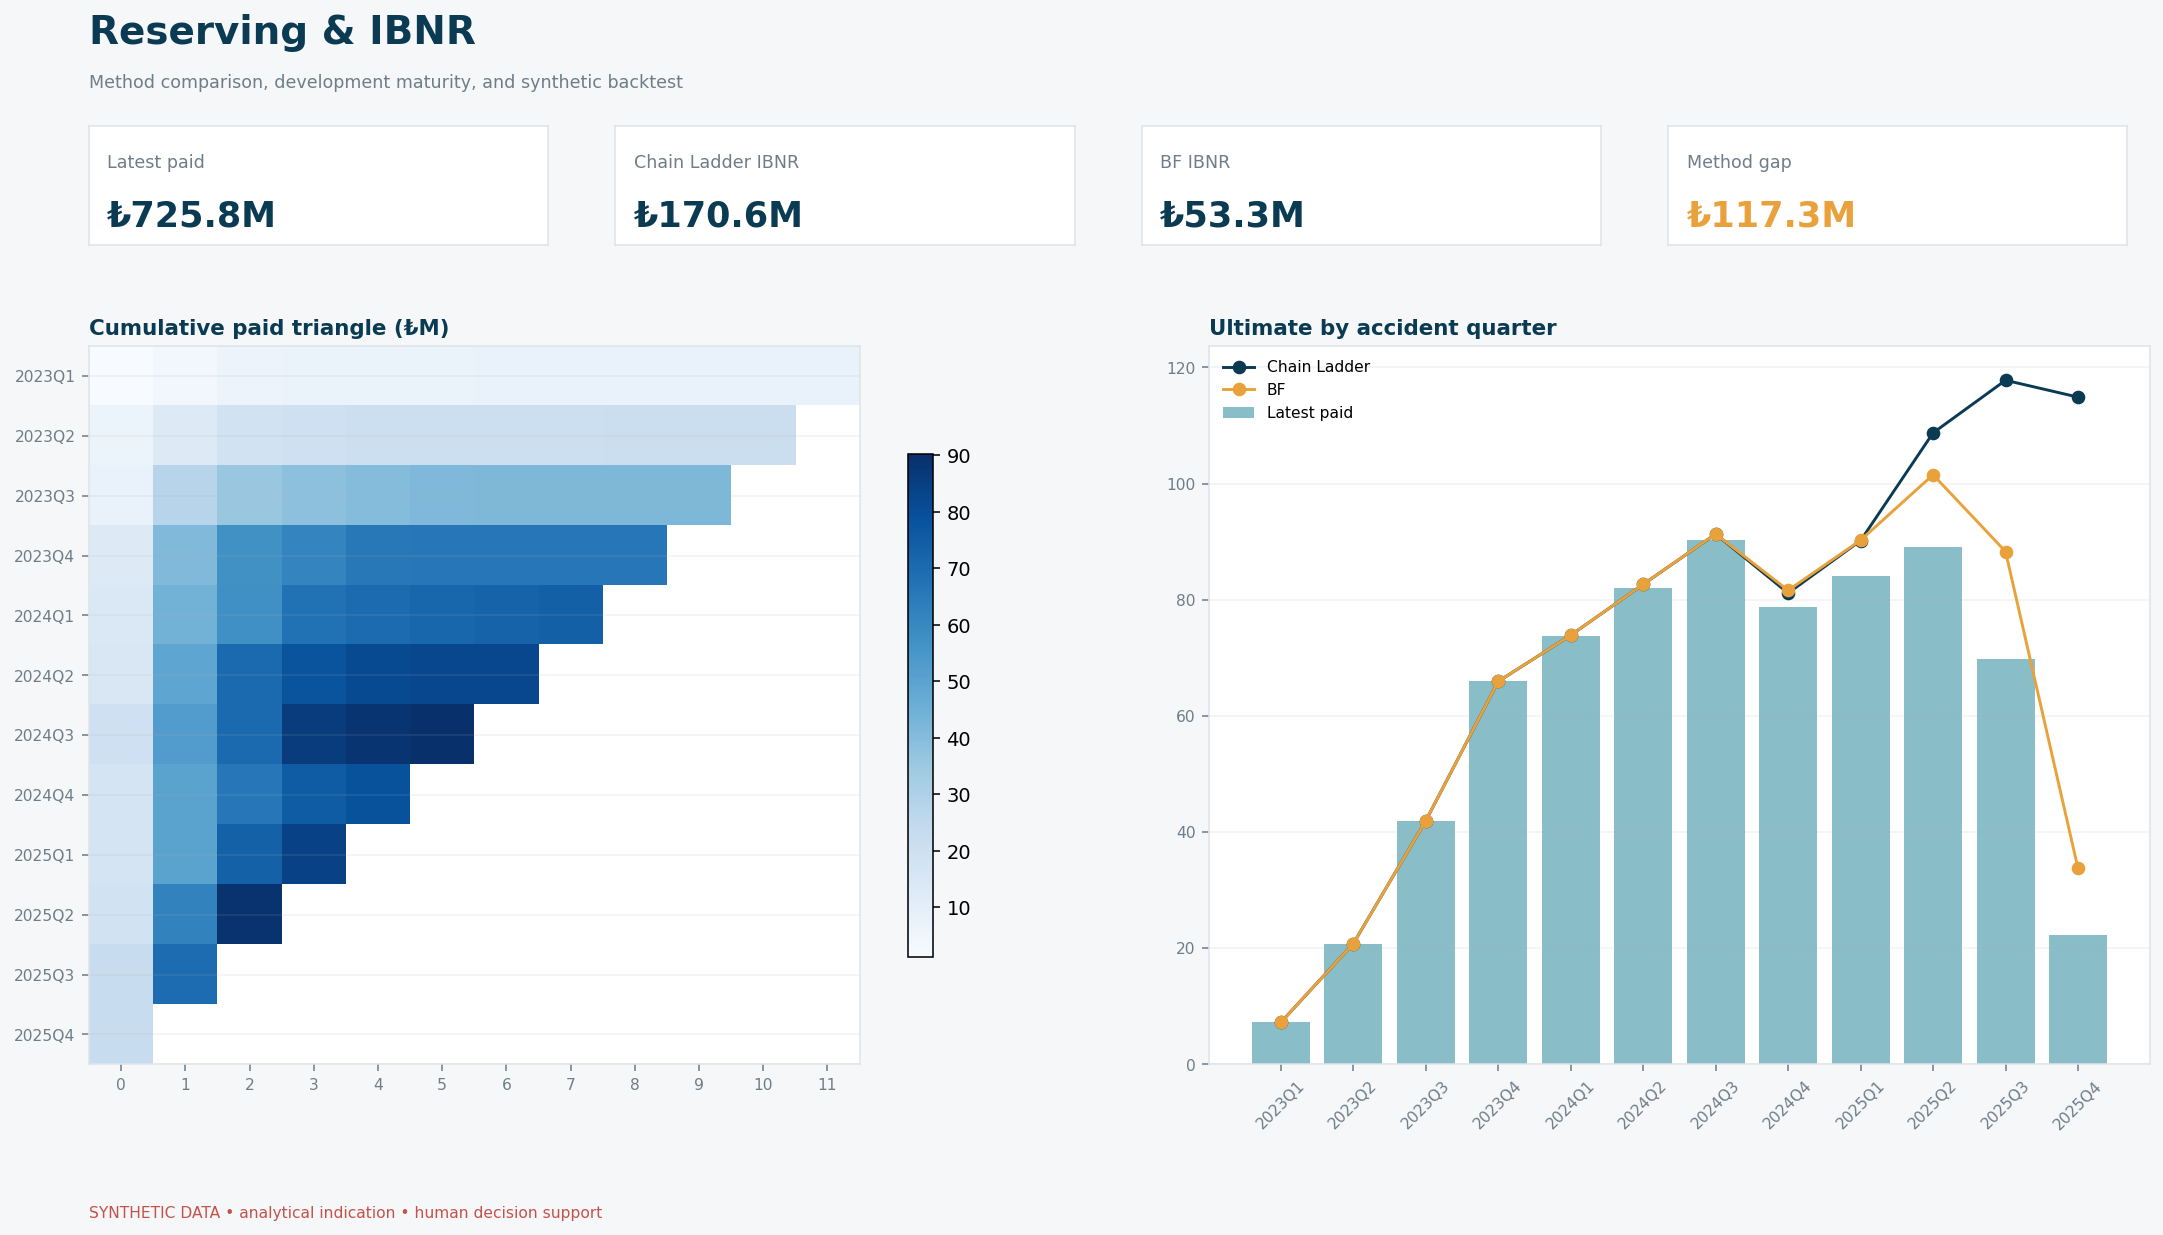
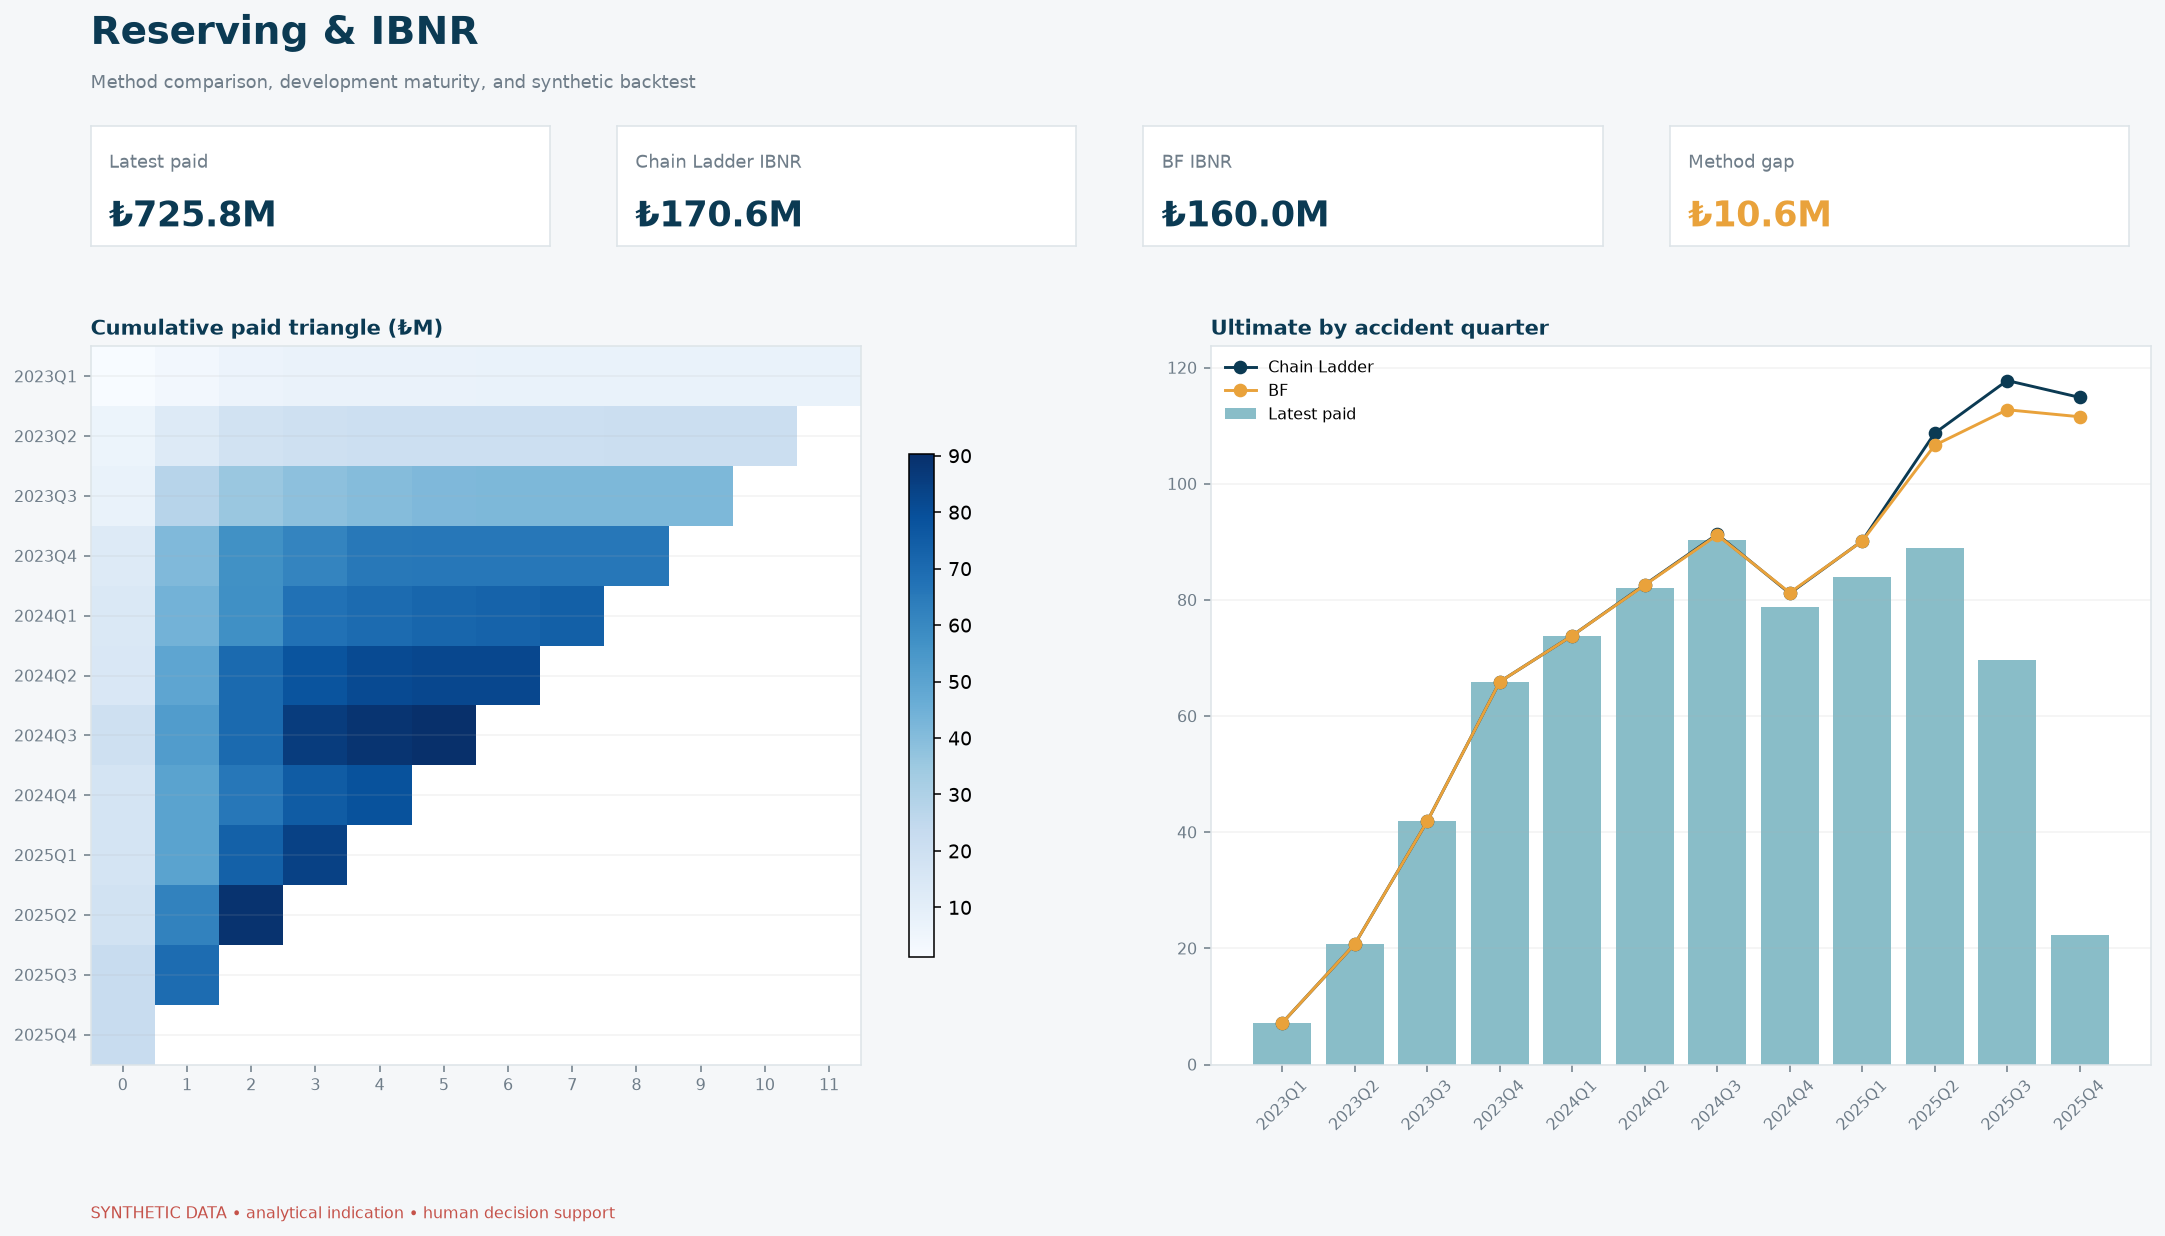
fix(reserving): put Bornhuetter-Ferguson on an accident-quarter premium basis (#11)
The paid triangle is on an accident-quarter basis, but the BF a-priori
ultimate used the full earned premium of policies that *started* in each
quarter. Policies are annual, so their premium is earned across four
quarters. The mismatch made implied loss ratios by quarter range from 0.08
(2023Q1) to 5.17 (2025Q4) against an expected loss ratio of 0.68, and BF
understated portfolio ultimate losses by 13.08% (68.9% in the valuation
quarter). The README described this as assumption risk.

- _earned_premium_by_accident_quarter() spreads each policy's earned premium
  evenly over its earned days (policy_start to min(policy_end, valuation))
  and splits it by calendar-quarter overlap. Totals are preserved exactly.
- chain_ladder() takes an optional valuation_date (defaults to the end of the
  triangle's last accident quarter); the pipeline passes the configured date.
- Chain Ladder is unchanged and was checked against the RAA triangle
  (published LDFs and IBNR 52,135 reproduced).

Results (60,000 policies): BF IBNR TRY 53.28M -> 160.00M; BF total error vs
synthetic truth -13.08% -> -1.17%; valuation-quarter BF error -68.9% ->
+3.0%; implied quarterly loss ratios now 0.62-0.78.

Regenerated reserving artifacts, the reserving section of run_manifest.json,
the executive summary, the Power BI reserve marts and the reserving mockup,
and updated README/README.tr/CHANGELOG. Pricing artifacts are left untouched
(regenerating them with scikit-learn 1.9.1 drifts the GLM coefficients;
[…]

diff --git a/tests/test_reserving_premium_basis.py b/tests/test_reserving_premium_basis.py
@@ -1,0 +1,120 @@
+"""Bornhuetter-Ferguson must use premium earned in each accident quarter."""
+
+from __future__ import annotations
+
+import sys
+import unittest
+from dataclasses import replace
+from pathlib import Path
+
+import numpy as np
+import pandas as pd
+
+PROJECT_ROOT = Path(__file__).resolve().parents[1]
+sys.path.insert(0, str(PROJECT_ROOT / "src"))
+
+from motor_insurance.config import load_config  # noqa: E402
+from motor_insurance.data_generation import generate_portfolio  # noqa: E402
+from motor_insurance.reserving import (  # noqa: E402
+    _earned_premium_by_accident_quarter,
+    build_incremental_triangle,
+    chain_ladder,
+)
+
+
+def policies(*rows: tuple[str, str, float]) -> pd.DataFrame:
+    return pd.DataFrame(rows, columns=["policy_start", "policy_end", "earned_premium"])
+
+
+def allocation(frame: pd.DataFrame, valuation: str) -> dict[str, float]:
+    result = _earned_premium_by_accident_quarter(frame, pd.Timestamp(valuation))
+    return dict(zip(result["accident_quarter"], result["earned_premium"].round(6)))
+
+
+class EarnedPremiumAllocationTests(unittest.TestCase):
+    def test_annual_policy_is_spread_by_days_in_each_quarter(self) -> None:
+        # 2024-01-01..2024-12-30 = 365 earned days; one unit of premium per day.
+        result = allocation(policies(("2024-01-01", "2024-12-30", 365.0)), "2025-03-31")
+        self.assertEqual(result["2024Q1"], 91.0)  # leap-year February
+        self.assertEqual(result["2024Q2"], 91.0)
+        self.assertEqual(result["2024Q3"], 92.0)
+        self.assertEqual(result["2024Q4"], 91.0)
+        self.assertEqual(result["2025Q1"], 0.0)
+
+    def test_exposure_after_valuation_is_not_earned(self) -> None:
+        # Earned premium already covers 2025-11-01..2025-12-31 (61 days) at valuation.
+        result = allocation(policies(("2025-11-01", "2026-10-31", 61.0)), "2025-12-31")
+        self.assertEqual(result, {"2025Q4": 61.0})
+
+    def test_policy_starting_after_valuation_contributes_nothing(self) -> None:
+        frame = policies(("2025-01-01", "2025-12-31", 90.0), ("2026-02-01", "2027-01-31", 0.0))
+        result = allocation(frame, "2025-03-31")
+        self.assertEqual(result, {"2025Q1": 90.0})
+
+    def test_total_premium_is_preserved(self) -> None:
+        frame = policies(
+            ("2023-02-14", "2024-02-13", 1_000.0),
+            ("2023-07-01", "2024-06-29", 2_500.0),
+            ("2024-11-15", "2025-11-14", 410.0),
+        )
+        result = allocation(frame, "2024-12-31")
+        self.assertAlmostEqual(sum(result.values()), 3_910.0, places=4)
+
+    def test_invalid_policy_inputs_are_rejected(self) -> None:
+        with self.assertRaisesRegex(ValueError, "policy_end"):
+            _earned_premium_by_accident_quarter(
+                pd.DataFrame({"policy_start": ["2024-01-01"], "earned_premium": [1.0]}),
+                pd.Timestamp("2024-12-31"),
+            )
+        with self.assertRaisesRegex(ValueError, "before policy_start"):
+            allocation(policies(("2024-05-01", "2024-04-01", 1.0)), "2024-12-31")
+        with self.assertRaisesRegex(ValueError, "non-negative"):
+            allocation(policies(("2024-01-01", "2024-12-30", -1.0)), "2024-12-31")
+
+
+class BornhuetterFergusonBasisTests(unittest.TestCase):
+    @classmethod
+    def setUpClass(cls) -> None:
+        base = load_config(PROJECT_ROOT / "config" / "project.yaml")
+        cls.config = replace(base, n_policies=6_000)
+        cls.data = generate_portfolio(cls.config)
+        triangle = build_incremental_triangle(
+            cls.data["claims"], cls.data["claim_payments"], cls.config.valuation_date
+        )
+        cls.result = chain_ladder(
+            triangle,
+            cls.data["policies"],
+            cls.data["claims"],
+            cls.config.expected_loss_ratio,
+            valuation_date=cls.config.valuation_date,
+        )
+
+    def test_accident_quarter_premium_reconciles_to_portfolio_earned_premium(self) -> None:
+        summary = self.result.accident_period_summary
+        self.assertAlmostEqual(
+            summary["earned_premium"].sum(),
+            self.data["policies"]["earned_premium"].sum(),
+            delta=1.0,
+        )
+
+    def test_implied_loss_ratios_are_plausible_in_every_quarter(self) -> None:
+        # With premium booked on the policy-start quarter, the implied ratio ranged from
+        # about 0.08 (first quarter) to 5.2 (valuation quarter).
+        summary = self.result.accident_period_summary
+        ratio = summary["synthetic_true_ultimate"] / summary["earned_premium"]
+        self.assertTrue(np.all((ratio > 0.3) & (ratio < 1.5)), ratio.round(3).tolist())
+
+    def test_bf_ultimate_is_close_to_synthetic_truth(self) -> None:
+        # Previously about -13% in total and -69% in the valuation quarter.
+        self.assertLess(abs(self.result.portfolio_summary["bornhuetter_ferguson_total_error_pct"]), 0.05)
+
+    def test_valuation_date_defaults_to_last_triangle_quarter(self) -> None:
+        triangle = self.result.incremental_triangle
+        inferred = chain_ladder(
+            triangle, self.data["policies"], self.data["claims"], self.config.expected_loss_ratio
+        )
+        self.assertEqual(inferred.portfolio_summary, self.result.portfolio_summary)
+
+
+if __name__ == "__main__":
+    unittest.main()

diff --git a/src/motor_insurance/reserving.py b/src/motor_insurance/reserving.py
@@ -139,11 +139,61 @@ def _development_factors(cumulative: pd.DataFrame) -> np.ndarray:
     return np.asarray(factors, dtype=float)
 
 
+def _earned_premium_by_accident_quarter(
+    policies: pd.DataFrame, valuation: pd.Timestamp
+) -> pd.DataFrame:
+    """Allocate each policy's earned premium to the calendar quarters it was exposed in.
+
+    The reserving triangle is on an accident-quarter basis, so the Bornhuetter-Ferguson
+    a-priori ultimate needs premium earned in each accident quarter. A policy's earned
+    premium is spread evenly over its earned days (policy_start to the earlier of
+    policy_end and the valuation date) and split by calendar-quarter overlap; totals are
+    preserved.
+    """
+    required = {"policy_start", "policy_end", "earned_premium"}
+    missing = sorted(required - set(policies.columns))
+    if missing:
+        raise ValueError("policies is missing required columns: " + ", ".join(missing))
+    start = pd.to_datetime(policies["policy_start"], errors="coerce")
+    end = pd.to_datetime(policies["policy_end"], errors="coerce")
+    if start.isna().any() or end.isna().any():
+        raise ValueError("policy_start and policy_end must contain only valid dates")
+    if (end < start).any():
+        raise ValueError("policy_end cannot be before policy_start")
+    premium = pd.to_numeric(policies["earned_premium"], errors="coerce")
+    if not np.isfinite(premium).all() or (premium < 0).any():
+        raise ValueError("earned_premium must contain only finite non-negative values")
+
+    earned_end = end.where(end <= valuation, valuation)
+    earned_days = (earned_end - start).dt.days + 1
+    # Policies starting after the valuation date have earned nothing yet.
+    active = earned_days > 0
+    daily_premium = (premium / earned_days.where(active, 1)).where(active, 0.0)
+
+    records = []
+    first = start.loc[active].min() if active.any() else valuation
+    for period in pd.period_range(first.to_period("Q"), valuation.to_period("Q"), freq="Q"):
+        quarter_start = period.start_time
+        quarter_end = period.end_time.normalize()
+        overlap = (
+            earned_end.where(earned_end <= quarter_end, quarter_end)
+            - start.where(start >= quarter_start, quarter_start)
+        ).dt.days + 1
+        records.append(
+            {
+                "accident_quarter": str(period),
+                "earned_premium": float((daily_premium * overlap.clip(lower=0)).sum()),
+            }
+        )
+    return pd.DataFrame(records, columns=["accident_quarter", "earned_premium"])
+
+
 def chain_ladder(
     incremental: pd.DataFrame,
     policies: pd.DataFrame,
     claims: pd.DataFrame,
     expected_loss_ratio: float,
+    valuation_date: str | pd.Timestamp | None = None,
 ) -> ReservingResult:
     if (
         isinstance(expected_loss_ratio, (bool, np.bool_))
@@ -186,9 +236,12 @@ def chain_ladder(
         )
     summary = pd.DataFrame(summary_records)
 
-    policy_premium = policies.copy()
-    policy_premium["accident_quarter"] = pd.to_datetime(policy_premium["policy_start"]).dt.to_period("Q").astype(str)
-    premium_by_quarter = policy_premium.groupby("accident_quarter", as_index=False)["earned_premium"].sum()
+    if valuation_date is None:
+        # The triangle's last accident quarter is the valuation quarter.
+        valuation = pd.Period(str(cumulative.index[-1]), freq="Q").end_time.normalize()
+    else:
+        valuation = pd.Timestamp(valuation_date)
+    premium_by_quarter = _earned_premium_by_accident_quarter(policies, valuation)
     summary = summary.merge(premium_by_quarter, on="accident_quarter", how="left")
     summary["earned_premium"] = summary["earned_premium"].fillna(0.0)
     summary["expected_ultimate"] = summary["earned_premium"] * expected_loss_ratio

diff --git a/src/motor_insurance/pipeline.py b/src/motor_insurance/pipeline.py
@@ -70,6 +70,7 @@ def run_pipeline(config: ProjectConfig) -> dict[str, Any]:
         datasets["policies"],
         datasets["claims"],
         expected_loss_ratio=config.expected_loss_ratio,
+        valuation_date=config.valuation_date,
     )
     reserve.incremental_triangle.to_csv(config.artifacts_dir / "reserving" / "incremental_paid_triangle.csv")
     reserve.cumulative_triangle.to_csv(config.artifacts_dir / "reserving" / "cumulative_paid_triangle.csv")

diff --git a/README.tr.md b/README.tr.md
@@ -46,7 +46,7 @@ Sonuçlar `20260902` tohumu ve `31.12.2025` değerleme tarihiyle yeniden üretil
 | OOT saf prim kalibrasyonu | 0,866 |
 | Prim artışı incelemesine giren poliçe | %33,60 |
 | Chain Ladder IBNR | 170,58 milyon TL |
-| Bornhuetter-Ferguson IBNR | 53,28 milyon TL |
+| Bornhuetter-Ferguson IBNR | 160,00 milyon TL |
 | İnsan inceleme kuyruğu | 439 hasar / %5,14 |
 | İnceleme hassasiyeti / rastgeleye göre lift | %14,12 / 3,82 kat |
 | Otomatik hasar reddi | 0 |
@@ -54,7 +54,8 @@ Sonuçlar `20260902` tohumu ve `31.12.2025` değerleme tarihiyle yeniden üretil
 Chain Ladder'ın sentetik nihai hasara göre toplam hatası yalnızca `%0,01`'dir.
 Bu sonuç, sabit ve deterministik sentetik gelişim deseninden kaynaklanan bir
 yeniden üretilebilirlik ölçüsüdür; gerçek portföy rezerv doğruluğu iddiası değildir.
-Bornhuetter-Ferguson karşılaştırma modeli nihai hasarı `%13,08` düşük tahmin ederek
+Beklenen loss ratio'yu her kaza çeyreğinde kazanılan prime uygulayan
+Bornhuetter-Ferguson karşılaştırma modeli nihai hasarı `%1,17` düşük tahmin ederek
 beklenen loss ratio varsayımının riskini görünür kılar.
 
 ## Dashboard görsel turu

diff --git a/README.md b/README.md
@@ -48,7 +48,7 @@ date `2025-12-31`.
 | OOT pure-premium calibration | 0.866 actual-to-predicted |
 | Policies flagged for indicated increase review | 33.60% |
 | Chain Ladder IBNR | TRY 170.58M |
-| Bornhuetter-Ferguson IBNR | TRY 53.28M |
+| Bornhuetter-Ferguson IBNR | TRY 160.00M |
 | Human-review queue | 439 claims / 5.14% |
 | Triage precision / lift | 14.12% / 3.82x |
 | Automated claim denials | 0 |
@@ -56,8 +56,9 @@ date `2025-12-31`.
 The deterministic generator uses stable claim-development mechanics, so the
 portfolio Chain Ladder error against synthetic ultimate losses is unusually low
 at `0.01%`. This is a reproducibility benchmark, not an assertion of real-world
-reserve accuracy. The Bornhuetter-Ferguson challenger underestimates synthetic
-ultimate losses by `13.08%`, making the assumption risk visible instead of hiding it.
+reserve accuracy. The Bornhuetter-Ferguson challenger, which applies the expected
+loss ratio to premium earned in each accident quarter, underestimates synthetic
+ultimate losses by `1.17%`, keeping the expected-loss-ratio assumption risk visible.
 
 ## Visual dashboard tour
 

diff --git a/CHANGELOG.md b/CHANGELOG.md
@@ -1,5 +1,16 @@
 # Changelog
 
+## Unreleased
+
+- Fixed the Bornhuetter-Ferguson premium basis. The a-priori ultimate for each accident quarter
+  used the full earned premium of policies that *started* in that quarter, while the triangle is
+  on an accident-quarter basis and annual policies earn premium over four quarters. Implied loss
+  ratios therefore ranged from 0.08 to 5.17 by quarter, and BF understated portfolio ultimate
+  losses by 13.08% (68.9% in the valuation quarter). Earned premium is now allocated to calendar
+  quarters by days of exposure up to the valuation date. BF IBNR moves from TRY 53.28M to
+  TRY 160.00M, and the total error vs synthetic truth from -13.08% to -1.17%. Chain Ladder is
+  unchanged.
+
 ## 0.2.0 — 2026-09-02
 
 - Added a six-page, decision-led Power BI dashboard specification.

diff --git a/reports/executive_analytical_summary.md b/reports/executive_analytical_summary.md
@@ -22,9 +22,9 @@
 ## Reserving
 
 - Chain Ladder IBNR: TRY 170,579,807.40
-- Bornhuetter-Ferguson IBNR: TRY 53,275,056.56
+- Bornhuetter-Ferguson IBNR: TRY 159,997,186.77
 - Chain Ladder total error vs synthetic truth: 0.01%
-- Bornhuetter-Ferguson total error vs synthetic truth: -13.08%
+- Bornhuetter-Ferguson total error vs synthetic truth: -1.17%
 
 ## Human-controlled fraud triage
 
